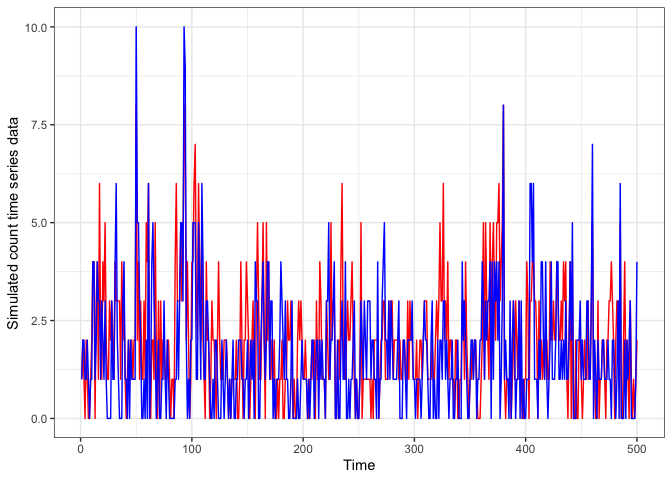
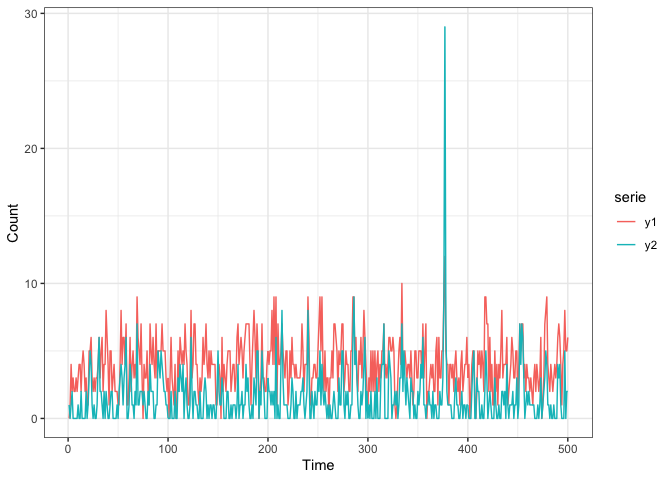
readme edits

diff --git a/README.md b/README.md
@@ -1,78 +1,95 @@
+Luiza Piancastelli <luiza.piancastelli@ucdconnect.ie>
 
-<!-- README.md is generated from README.Rmd. Please edit that file -->
-
-# rbcpingarch
-
-<!-- badges: start -->
-
-<!-- badges: end -->
-
-The goal of rbcpingarch is to …
-
-## Installation
-
-You can install the released version of rbcpingarch from
-[CRAN](https://CRAN.R-project.org) with:
-
-``` r
-install.packages("rbcpingarch")
-```
-
-And the development version from [GitHub](https://github.com/) with:
+`rbcpingarch` is an R package providing code to simulate and fit the
+Bivariate Conditional Poisson INGARCH(1,1) process proposed in
+[Piancastelli, Barreto-Souza and
+Ombao](https://arxiv.org/abs/2011.08799). Our package links to `rstan`,
+so proper setup of C++ compiler is required for usage. Once this is
+done, installation from GitHub is as follows.
 
 ``` r
 # install.packages("devtools")
 devtools::install_github("luizapiancastelli/rbcpingarch")
 ```
 
-  - 
-### Data simulation
+### BCP-INGARCH simulation
+
+The next chunk of code exemplifies the usage of `rBCPINGARCH` for
+simulating a realisation of the bivariate conditional Poisson count
+process. A simplified description of the function arguments is included
+in the call of `help(rBCPINGARCH)`.
 
 ``` r
-A = matrix(c(0.3, 0, 0, 0.1), ncol =2, byrow = TRUE)
-B = matrix(c(0.2, 0, 0, 0.3), ncol =2, byrow = TRUE)
-omega = c(1,1)
-phi = 0.3
+A = diag(c(0.3, 0.1)) #Diagonal (2x2) matrix
+B = diag(c(0.2, 0.3)) #Diagonal (2x2) matrix, can be non diagonal as long as stationarity conditions satisfied
+omega = c(2,1) 
+phi = 0.3 
+n = 500  #Time series length
 
-Y = rBCPINGARCH(A, B, omega, phi, 500)
+Y = rBCPINGARCH(A, B, omega, phi, n)
 head(Y)
 #>      [,1] [,2]
-#> [1,]    1    1
-#> [2,]    2    2
-#> [3,]    1    2
-#> [4,]    0    1
-#> [5,]    2    1
-#> [6,]    1    2
+#> [1,]    0    1
+#> [2,]    1    0
+#> [3,]    4    1
+#> [4,]    2    2
+#> [5,]    3    0
+#> [6,]    2    0
 cor(Y)
-#>          [,1]     [,2]
-#> [1,] 1.000000 0.556566
-#> [2,] 0.556566 1.000000
+#>           [,1]      [,2]
+#> [1,] 1.0000000 0.5855228
+#> [2,] 0.5855228 1.0000000
 
 Y_df = data.frame('y1' =Y[,1], 'y2' = Y[,2], 't' = 1:nrow(Y))
-ggplot(Y_df, aes(x = t))+
-  geom_line(aes(y = y1), color = 'red') +  geom_line(aes(y = y2), color = 'blue')+theme_bw()+
-  labs(y = 'Simulated count time series data', x = 'Time')
+Y_df = pivot_longer(Y_df, cols = starts_with('y'), names_to = 'serie', values_to = 'count')
+
+ggplot(Y_df, aes(x = t, y = count, color = serie))+
+  geom_line()+theme_bw()+
+  labs(y = 'Count', x = 'Time')
 ```
 
 <img src="man/figures/README-unnamed-chunk-2-1.png" width="100%" />
 
 ### Model fit
 
-    #>        A[1]        A[2]        B[1]        B[2]  omega[1,1]  omega[2,1] 
-    #> 0.465619498 0.481809019 0.429948649 0.383853540 2.310480454 6.518914405 
-    #>         phi 
-    #> 0.009613826
-    #>         A11         A22         B11         B22      omega1      omega2 
-    #> 0.056709886 0.039787482 0.042086278 0.026293151 0.578115241 0.909545488 
-    #>         phi 
-    #> 0.001149342
-    #> [1] 46115.42
-    #>        A[1]        A[2]      B[1,1]      B[2,1]      B[1,2]      B[2,2] 
-    #> 0.496876989 0.447653650 0.398157521 0.018631135 0.001979496 0.399368538 
-    #>  omega[1,1]  omega[2,1]         phi 
-    #> 2.216294309 7.011972425 0.009599605
-    #>         A11         A22         B11         B21         B12         B22 
-    #> 0.059010457 0.043599866 0.046492743 0.031799857 0.007077866 0.029602968 
-    #>      omega1      omega2         phi 
-    #> 0.612004557 1.133671734 0.001154630
-    #> [1] 46117.22
+In what follows, the function `fit_BCP_INGARCH` is used for conditional
+maximum likelihood estimation of the model parameters for the bivariate
+count time series data of viral hepatites cases in the Brazilian cities
+Goiania and Brasilia. This data set is available in `rbcpingarch` via a
+call to `data("Y_hep")`, originally collected from the [DATASUS
+platform](https://datasus.saude.gov.br). This function takes as
+arguments the observed data and specification of `A` and `B` matrices as
+diagonal or non-diagonal, which relates to the between series INGARCH
+parameters.
+
+``` r
+data("Y_hep") #Loads the Brazilian hepatites count data set
+
+fit_diag = fit_BCP_INGARCH(Y_hep, A.diag = TRUE, B.diag = TRUE) 
+fit_diag$par #maximised parameter values
+#>        A[1]        A[2]        B[1]        B[2]  omega[1,1]  omega[2,1] 
+#> 0.465619498 0.481809019 0.429948649 0.383853540 2.310480454 6.518914405 
+#>         phi 
+#> 0.009613826
+fit_diag$se  #asymptotic standard errors
+#>         A11         A22         B11         B22      omega1      omega2 
+#> 0.056709886 0.039787482 0.042086278 0.026293151 0.578115241 0.909545488 
+#>         phi 
+#> 0.001149342
+fit_diag$loglik 
+#> [1] 46115.42
+
+fit_nd = fit_BCP_INGARCH(Y_hep, A.diag = TRUE, B.diag = FALSE)
+fit_nd$par
+#>        A[1]        A[2]      B[1,1]      B[2,1]      B[1,2]      B[2,2] 
+#> 0.496876989 0.447653650 0.398157521 0.018631135 0.001979496 0.399368538 
+#>  omega[1,1]  omega[2,1]         phi 
+#> 2.216294309 7.011972425 0.009599605
+fit_nd$se
+#>         A11         A22         B11         B21         B12         B22 
+#> 0.059010457 0.043599866 0.046492743 0.031799857 0.007077866 0.029602968 
+#>      omega1      omega2         phi 
+#> 0.612004557 1.133671734 0.001154630
+fit_nd$loglik
+#> [1] 46117.22
+```
